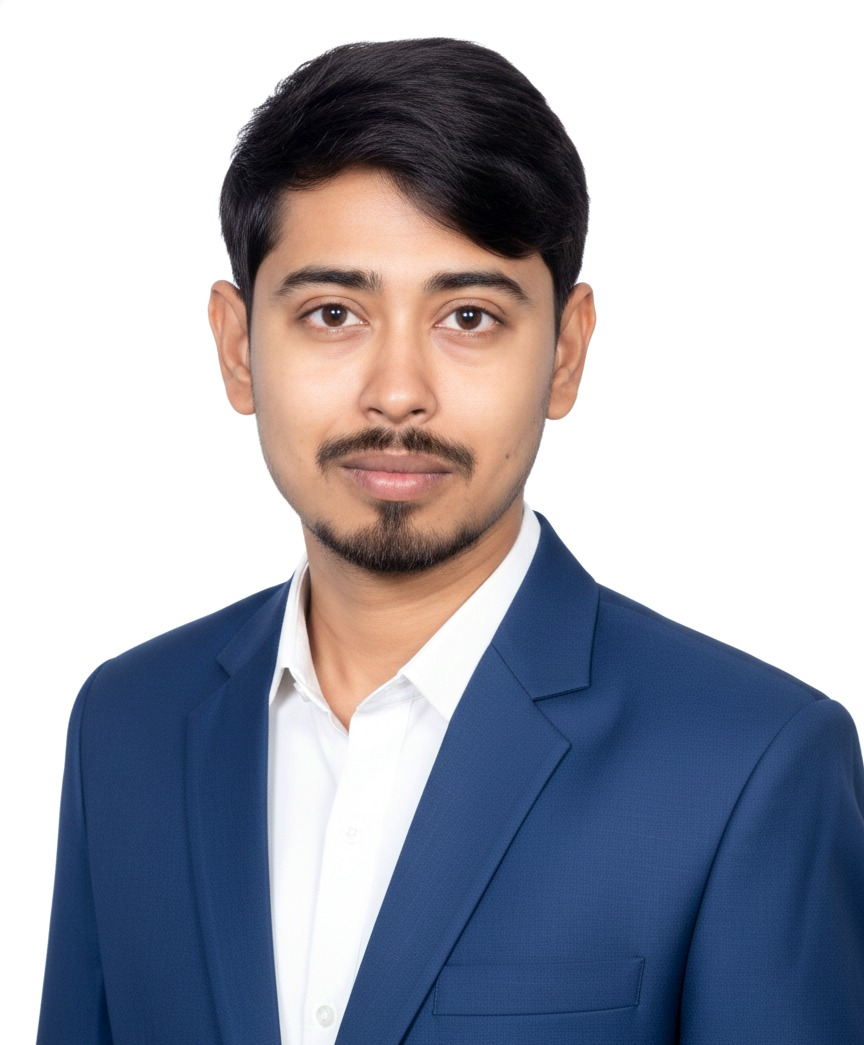
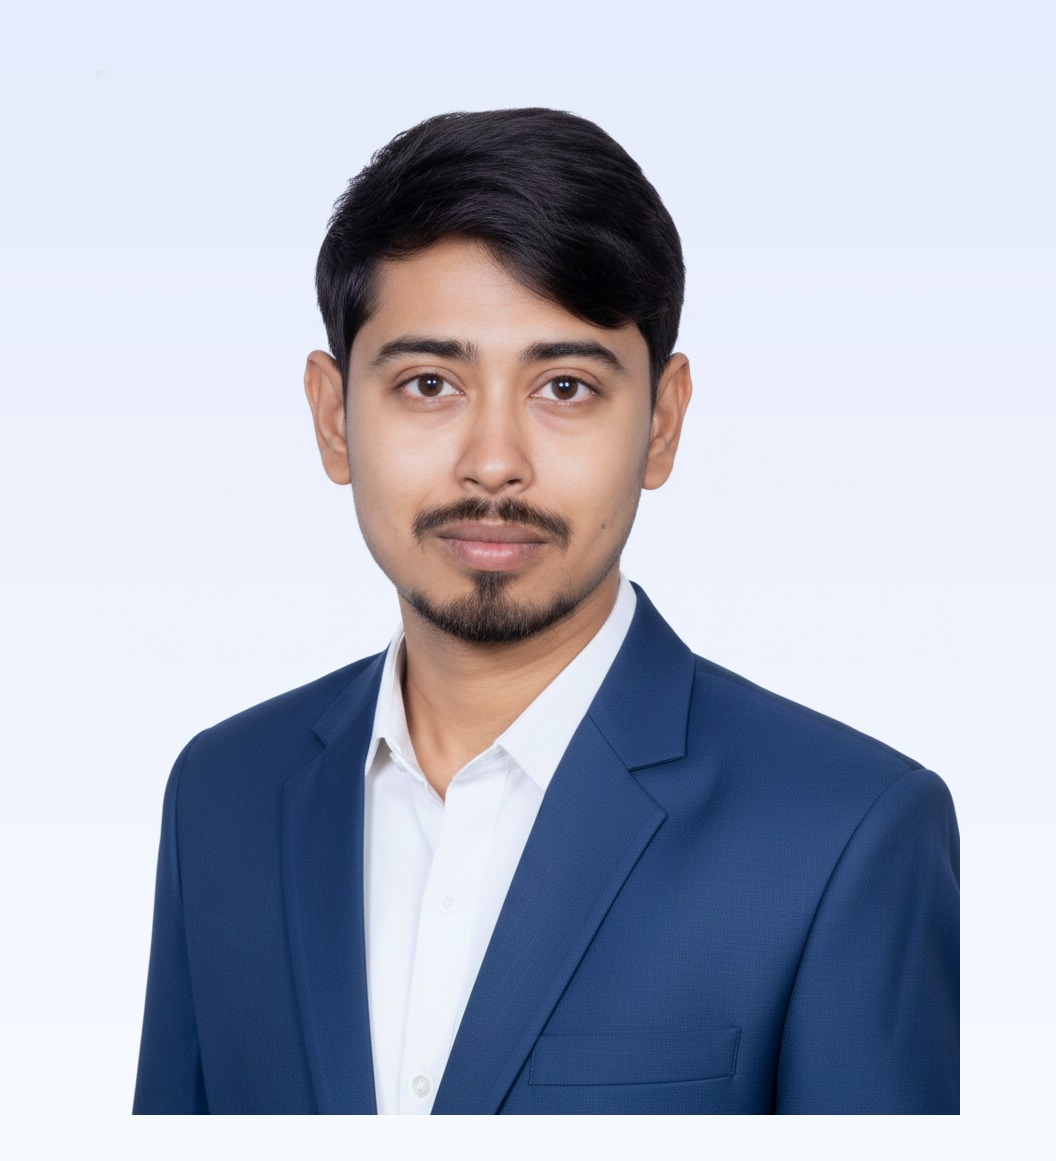
Hero copy update + airy photo treatment
- Hero copy: greeting line "Hi, I'm Sk Prithulbin Alam.", headline back
  to "I forge manual work into reliable enterprise systems.", new intro
  paragraph, and chip "Available for Opportunities & Freelance".
- Reworked the hero portrait: added breathing room and a subtle
  brand-tinted backdrop (multiply) so the headshot sits elegantly beside
  the text instead of reading as a tight crop.

Claude-Session: https://claude.ai/code/session_01KdGE8Rn1nhNiqAWHojzo6p

diff --git a/app/globals.css b/app/globals.css
@@ -144,15 +144,16 @@ body::before{content:"";position:fixed;inset:0 0 auto;height:env(safe-area-inset
 .chip--live::before{content:"";display:inline-block;width:7px;height:7px;border-radius:50%;background:currentColor;margin-right:7px;vertical-align:middle}
 @media (prefers-color-scheme:dark){:root:not([data-theme="light"]) .chip--live{color:#5fd6a0;border-color:#275c44;background:#10271d}}
 :root[data-theme="dark"] .chip--live{color:#5fd6a0;border-color:#275c44;background:#10271d}
+.hero__greet{font-family:var(--font-display);font-weight:700;font-size:clamp(1.05rem,2.4vw,1.35rem);letter-spacing:-.01em;color:var(--fg);margin-bottom:12px}
+.hero__nm{background:linear-gradient(120deg,var(--blue),var(--teal));-webkit-background-clip:text;background-clip:text;color:transparent;white-space:nowrap}
 .hero h1{font-size:clamp(2rem,5.6vw,3.5rem);font-weight:800}
-.hero h1 .hero__nm{background:linear-gradient(120deg,var(--blue),var(--teal));-webkit-background-clip:text;background-clip:text;color:transparent;white-space:nowrap}
 .hero h1 .grad{background:linear-gradient(120deg,var(--blue),var(--teal));-webkit-background-clip:text;background-clip:text;color:transparent}
 .hero__role{font-family:var(--font-mono);font-size:.82rem;color:var(--accent);margin-top:18px;letter-spacing:.02em}
 .hero__sub{color:var(--muted);font-size:clamp(1rem,2.1vw,1.16rem);margin-top:16px;max-width:48ch}
 .hero__cta{display:flex;gap:12px;flex-wrap:wrap;margin-top:28px}
 .hero__photo{position:relative;justify-self:end}
 .hero__photo .frame{border-radius:22px;overflow:hidden;border:1px solid var(--line);box-shadow:var(--shadow-lg);width:min(360px,82vw);background:var(--surface)}
-.hero__photo img{width:100%;aspect-ratio:864/1045;object-fit:cover;object-position:center top;display:block}
+.hero__photo img{width:100%;aspect-ratio:1056/1161;object-fit:cover;object-position:center top;display:block}
 .hero__photo .pill{position:absolute;left:-16px;bottom:24px;background:var(--surface);border:1px solid var(--line);border-radius:13px;padding:10px 14px;box-shadow:var(--shadow)}
 .hero__photo .pill .k{font-family:var(--font-mono);font-size:.62rem;letter-spacing:.14em;text-transform:uppercase;color:var(--muted)}
 .hero__photo .pill .v{font-family:var(--font-display);font-weight:700;font-size:1rem}

diff --git a/components/Sections.jsx b/components/Sections.jsx
@@ -14,10 +14,11 @@ export function Hero() {
       <div className="wrap">
         <div>
           <div className="hero__chips">
-            <span className="chip chip--live">Available for roles &amp; freelance</span>
+            <span className="chip chip--live">Available for Opportunities &amp; Freelance</span>
             <span className="chip">Microsoft Power Platform · Azure · Agentic AI</span>
           </div>
-          <h1>I, <span className="hero__nm">{profile.name}</span>, forge manual work into <span className="grad">reliable enterprise systems</span>.</h1>
+          <p className="hero__greet">Hi, I'm <span className="hero__nm">{profile.name}</span>.</p>
+          <h1>I forge manual work into <span className="grad">reliable enterprise systems</span>.</h1>
           <p className="hero__role">{profile.title} · {profile.location}</p>
           <p className="hero__sub">{profile.tagline}</p>
           <div className="hero__cta">
@@ -26,7 +27,7 @@ export function Hero() {
           </div>
         </div>
         <div className="hero__photo">
-          <div className="frame"><img src="hero.jpg" alt={profile.name} width="864" height="1045" /></div>
+          <div className="frame"><img src="hero.jpg" alt={profile.name} width="1056" height="1161" /></div>
           <div className="pill"><div className="k">Experience</div><div className="v">5+ years</div></div>
         </div>
       </div>

diff --git a/lib/content.js b/lib/content.js
@@ -10,7 +10,7 @@ export const profile = {
   calendly: "https://calendly.com/alam-98tech/30min",
   blog: "https://blogs.alamforge.com",
   tagline:
-    "I turn manual, spreadsheet-driven work into dependable enterprise systems on Microsoft Power Platform and Azure, and I build the AI agents that run inside them.",
+    "I transform manual, spreadsheet-driven processes into scalable enterprise solutions using Microsoft Power Platform and Azure. I also design and develop intelligent AI agents that automate workflows, enhance decision-making, and drive business efficiency.",
   intro:
     "Over the last five years I've shipped apps, automations and AI agents for enterprise teams, and I stay with them through go-live and hypercare. I care less about the demo and more about the solution still running cleanly a year later.",
   mission:
